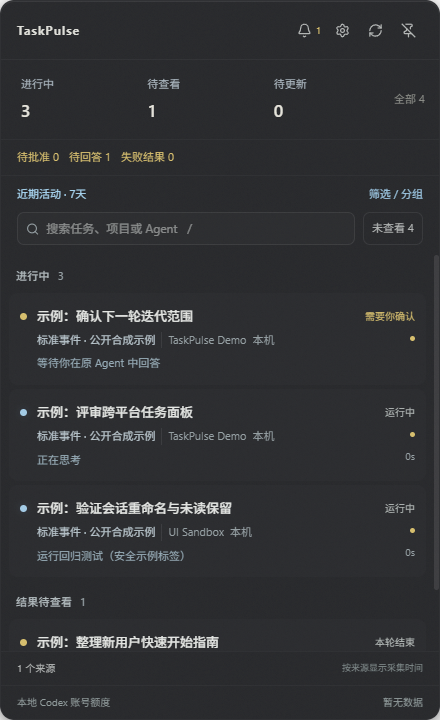
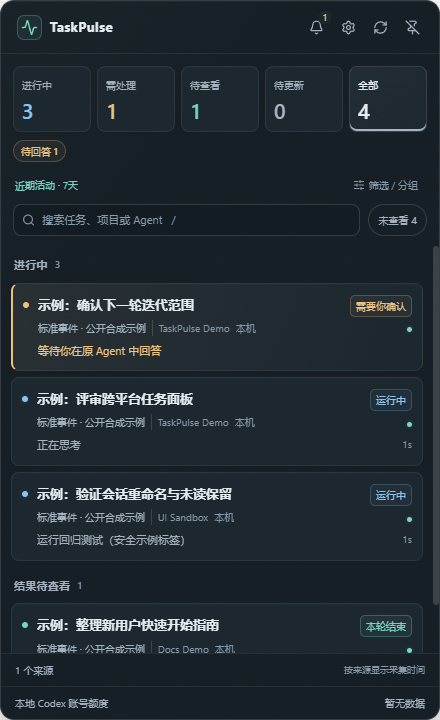
style(notice): unify compact reminders and refresh native screenshots

diff --git a/scripts/native-product-smoke.ts b/scripts/native-product-smoke.ts
@@ -40,7 +40,7 @@ const env={...process.env,TASKPULSE_HOME:home,WEBVIEW2_ADDITIONAL_BROWSER_ARGUME
 type Tab={url:string;webSocketDebuggerUrl:string};
 const tabs=async():Promise<Tab[]>=>fetch('http://127.0.0.1:9337/json').then(r=>r.json());
 assert.equal(await tabs().then(()=>true).catch(()=>false),false,'Refusing occupied CDP port');
-const errors:string[]=[];const checks:string[]=[];
+const errors:string[]=[];const checks:string[]=[];const scaleChecks:unknown[]=[];
 async function connect(tab:Tab){
   const ws=new WebSocket(tab.webSocketDebuggerUrl);await new Promise<void>((ok,fail)=>{ws.onopen=()=>ok();ws.onerror=()=>fail(Error('CDP failed'));});
   let seq=0;const pending=new Map<number,{ok:(v:any)=>void;fail:(e:any)=>void;timer:ReturnType<typeof setTimeout>}>();
@@ -64,6 +64,39 @@ function event(session:string,kind:string,payload:Record<string,string>={},extra
 }
 async function input(client:any,selector:string,value:string){await client.evaluate(`(()=>{const e=document.querySelector(${JSON.stringify(selector)});e.value=${JSON.stringify(value)};e.dispatchEvent(new Event('input',{bubbles:true}));})()`);}
 async function click(client:any,selector:string){await client.evaluate(`document.querySelector(${JSON.stringify(selector)}).click()`);}
+// Native WebView2 DPR emulation, not a claim that Windows display settings or
+// mixed-DPI monitor migration were changed/tested. Logical window sizes stay fixed.
+async function checkScales(client:any,kind:'dashboard'|'sources'|'notice',width:number,height:number){
+  for(const scale of [1,1.5,2]){
+    await client.send('Emulation.setDeviceMetricsOverride',{width,height,deviceScaleFactor:scale,mobile:false});
+    await Bun.sleep(150);
+    const layout=await client.evaluate(`(()=>{
+      const box=e=>{const r=e.getBoundingClientRect();return {left:r.left,right:r.right,top:r.top,bottom:r.bottom,width:r.width,height:r.height};};
+      const buttons=[...document.querySelectorAll('button:not(:disabled),input:not(:disabled),select:not(:disabled),summary')].filter(e=>{
+        const r=e.getBoundingClientRect(),x=r.left+r.width/2,y=r.top+r.height/2;
+        if(!(r.width>0&&r.height>0&&r.top>=0&&r.bottom<=innerHeight))return false;
+        // Offscreen descendants of a scrolling list are not occluded controls.
+        // Actual visible controls must still pass the elementFromPoint hit test.
+        for(let p=e.parentElement;p;p=p.parentElement){const s=getComputedStyle(p),b=p.getBoundingClientRect();if(/auto|scroll|hidden|clip/.test(s.overflowY)&&(y<b.top||y>=b.bottom))return false;if(/auto|scroll|hidden|clip/.test(s.overflowX)&&(x<b.left||x>=b.right))return false;}
+        return true;
+      });
+      const occluded=buttons.filter(e=>{const r=e.getBoundingClientRect();const hit=document.elementFromPoint(r.left+r.width/2,r.top+r.height/2);return !hit||!(e===hit||e.contains(hit));}).map(e=>e.getAttribute('aria-label')||e.textContent?.trim());
+      const titles=[...document.querySelectorAll('.row-title,.heading')].map(box);
+      const labels=[...document.querySelectorAll('.row-status')].map(box);
+      const overlapping=titles.some(t=>labels.some(s=>s.top<t.bottom&&s.bottom>t.top&&s.left<t.right&&s.right>t.left));
+      const panel=document.querySelector('.dashboard,.notice-window,.manage');
+      return {dpr:devicePixelRatio,bodyWidth:document.documentElement.scrollWidth,horizontal:document.documentElement.scrollWidth>innerWidth,panel:box(panel),occluded,overlapping,scrollbar:getComputedStyle(document.querySelector('.task-scroll')??document.body).overflowY};
+    })()`);
+    assert.equal(layout.dpr,scale);assert.equal(layout.horizontal,false,kind+' '+scale+' horizontal overflow');
+    assert.equal(layout.overlapping,false,kind+' '+scale+' title / state overlap');
+    assert.deepEqual(layout.occluded,[],kind+' '+scale+' inaccessible controls');
+    assert.ok(layout.panel.bottom<=height+1,kind+' '+scale+' panel outside logical window');
+    if(kind==='notice')assert.ok(await client.evaluate(`document.querySelector('.summary').getBoundingClientRect().bottom<=document.querySelector('footer').getBoundingClientRect().top`),'Notice summary overlaps actions');
+    await Bun.write(join(owned,kind+'-'+Math.round(scale*100)+'.png'),Buffer.from((await client.send('Page.captureScreenshot',{format:'png'})).data,'base64'));
+    scaleChecks.push({kind,scale,logicalSize:[width,height],...layout});
+  }
+  await client.send('Emulation.setDeviceMetricsOverride',{width,height,deviceScaleFactor:1,mobile:false});
+}
 async function screenshot(client:any,name:string,width:number,height:number){
   if(!process.argv.includes('--capture'))return;
   await client.send('Emulation.setDeviceMetricsOverride',{width,height,deviceScaleFactor:1,mobile:false});
@@ -88,6 +121,10 @@ try{
   const initial=await root.invoke('get_agents');
   const thinking=initial.find((t:any)=>t.session_id==='thinking'),done=initial.find((t:any)=>t.session_id==='done');
   assert.equal(await root.evaluate(`document.querySelector('.task-row').dataset.taskId`),initial.find((t:any)=>t.session_id==='question').id);
+  await checkScales(root,'dashboard',440,720);
+  await root.evaluate(`[...document.querySelectorAll('.counts .overview')].find(b=>b.textContent.includes('需处理')).click()`);
+  await root.wait(`document.querySelectorAll('.task-row').length===1&&document.querySelector('.task-row').textContent.includes('需要你确认')`);
+  await click(root,'.counts .total');
   await screenshot(root,'dashboard-alpha7',440,720);
   await input(root,'[aria-label="搜索任务"]','UI Sandbox');
   await root.wait(`document.querySelectorAll('.task-row').length===1`);
@@ -100,6 +137,8 @@ try{
   assert.equal(await root.evaluate(`(()=>{const rows=document.querySelectorAll('.task-row');rows[0].focus();rows[0].dispatchEvent(new KeyboardEvent('keydown',{key:'ArrowDown',bubbles:true}));return document.activeElement===rows[1];})()`),true);
   await click(root,'[data-task-id="'+thinking.id+'"]');
   await root.wait(`document.querySelector('.command')?.textContent.includes('正在思考')`);
+  const focus=await root.evaluate(`(()=>{const input=document.querySelector('[aria-label="搜索任务"]');document.querySelector('.dashboard').dispatchEvent(new KeyboardEvent('keydown',{key:'/',bubbles:true}));return document.activeElement===input&&getComputedStyle(input.closest('.search')).borderColor!=='rgba(0, 0, 0, 0)';})()`);
+  assert.equal(focus,true,'Search keyboard shortcut remains usable');
   assert.equal((await root.invoke('get_agents')).find((t:any)=>t.id===thinking.id).unread,thinking.unread);
   await input(root,'[aria-label="搜索任务"]','评审');
   await root.wait(`document.querySelectorAll('.task-row').length===1`);
@@ -132,16 +171,19 @@ try{
   await management.wait(`[...document.querySelectorAll('.source-tests button')].some(b=>b.textContent==='测试读取来源'&&!b.disabled)`);
   await management.evaluate(`[...document.querySelectorAll('button')].find(b=>b.textContent==='测试读取来源').click()`);
   await management.wait(`document.querySelector('.read-result')?.textContent.includes('本次读取正常')`);
+  await management.wait(`document.querySelector('.setup-flow [aria-current="step"]')?.textContent.includes('等待真实任务事件')`);
   const count=(await root.invoke('get_agents')).length;
   await management.evaluate(`[...document.querySelectorAll('button')].find(b=>b.textContent==='测试事件接收（不创建任务）').click()`);
   await management.wait(`document.body.textContent.includes('尚未验证真实 Agent')`);
   assert.equal((await root.invoke('get_agents')).length,count);
+  await checkScales(management,'sources',1040,900);
   await screenshot(management,'sources-alpha7',1040,900);
   checks.push('native source workflow/save/read test/event channel test; advanced Hook controls folded and no lifecycle overclaim');
   // Separate test notice is real renderer delivery, never a monitored Agent completion.
   const config=await root.invoke('get_monitoring_settings');config.notifications=true;await root.invoke('save_monitoring_settings',{settings:config});
   await root.invoke('test_notification');notice=await page('/notice');
   await notice.wait(`document.body.innerText.includes('测试')`);
+  await checkScales(notice,'notice',320,132);
   await screenshot(notice,'notice-alpha7',320,132);
   await root.wait(`__TAURI_INTERNALS__.invoke('get_notification_log').then(r=>r.some(r=>r.test&&r.stage==='rendered'))`);
   assert.equal((await root.invoke('get_agents')).length,count);
@@ -151,7 +193,7 @@ try{
     await mkdir('assets/screenshots',{recursive:true});
     for(const name of ['dashboard-alpha7','sources-alpha7','notice-alpha7'])await copyFile(join(owned,name+'.png'),join('assets/screenshots',name+'.png'));
   }
-  const report={passed:true,checks,layout,screenshots:process.argv.includes('--capture'),renderer:'Windows native Tauri WebView2',inputs:'public synthetic standard events, not real Agent-host support',realHostsVerified:[],realHostConfigurationsChanged:false,notVerified:['external editor focus on locked desktop','real Agent-host lifecycle','installer acceptance'],evidence:owned};
+  const report={passed:true,checks,layout,scaleChecks,scalingMethod:'WebView2 CDP deviceScaleFactor 1/1.5/2 with fixed logical windows; not OS mixed-monitor DPI acceptance',screenshots:process.argv.includes('--capture'),renderer:'Windows native Tauri WebView2',inputs:'public synthetic standard events, not real Agent-host support',realHostsVerified:[],realHostConfigurationsChanged:false,notVerified:['external editor focus on locked desktop','real Agent-host lifecycle','installer acceptance','OS display-scale changes and mixed-DPI monitor migration'],evidence:owned};
   await Bun.write(join(owned,'result.json'),JSON.stringify(report,null,2));console.log(JSON.stringify(report));
 }catch(error){const ui=await management?.evaluate(`({read:document.querySelector('.read-result')?.textContent,buttons:[...document.querySelectorAll('.source-tests button')].map(b=>({text:b.textContent,disabled:b.disabled})),errors:[...document.querySelectorAll('[role=alert]')].map(e=>e.textContent)})`).catch(()=>null);const providers=await root?.invoke('get_providers').catch(()=>null);await Bun.write(join(owned,'failure.json'),JSON.stringify({error:String(error),stderr,errors,ui,providers},null,2));console.error('Evidence: '+owned);throw error;}
 finally{

diff --git a/src/routes/notice/+page.svelte b/src/routes/notice/+page.svelte
@@ -1,6 +1,6 @@
 <script lang="ts">
   import { onMount } from 'svelte';
-  import { Activity, ArrowUpRight, X } from '@lucide/svelte';
+  import { Activity, CircleAlert, CircleCheck, ArrowUpRight, X } from '@lucide/svelte';
   import { invoke, isTauri } from '@tauri-apps/api/core';
   import { listen } from '@tauri-apps/api/event';
   import type { NoticeState } from '$lib/types';
@@ -62,16 +62,16 @@
   });
 </script>
 
-<div class="notice-window" role="region" aria-label="TaskPulse 任务提醒" onpointerenter={()=>hovered=true} onpointerleave={()=>hovered=false}>
-  <button class="close" aria-label="关闭提醒（保持未查看）" title="关闭提醒，任务仍未查看" disabled={busy || !noticeState.current} onclick={()=>void dismiss()}><X size={16} strokeWidth={1.7}/></button>
+<div class="notice-window tp-theme tp-tone" data-tone={content?.tone==='attention'?'action':content?.tone==='info'?'brand':content?.tone ?? 'neutral'} role="region" aria-label="TaskPulse 任务提醒" onpointerenter={()=>hovered=true} onpointerleave={()=>hovered=false}>
+  <button class="close tp-icon" aria-label="关闭提醒（保持未查看）" title="关闭提醒，任务仍未查看" disabled={busy || !noticeState.current} onclick={()=>void dismiss()}><X size={16} strokeWidth={1.7}/></button>
   {#if noticeState.current && content}
     {#key noticeState.current.id}
       <button class="message" disabled={busy} aria-label={'查看任务详情：'+content.heading} onclick={open}>
-        <span class="avatar" aria-hidden="true"><Activity size={18} strokeWidth={1.8}/><span class={'status-dot '+content.tone}></span></span>
+        <span class="avatar" aria-hidden="true">{#if content.tone==='success'}<CircleCheck size={17} strokeWidth={1.7}/>{:else if content.tone==='attention' || content.tone==='danger'}<CircleAlert size={17} strokeWidth={1.7}/>{:else}<Activity size={17} strokeWidth={1.7}/>{/if}<span class={'status-dot '+content.tone}></span></span>
         <span class="copy">
           <span class="sender-line">
             <span class="sender" title={content.sender}>{content.sender}</span>
-            {#if noticeState.current.test}<span class="test-badge">测试提醒</span>{/if}
+            {#if noticeState.current.test}<span class="test-badge tp-chip">测试提醒</span>{/if}
           </span>
           <span class="heading" role="heading" aria-level={1} title={content.heading}>{content.heading}</span>
           <span class={'summary '+content.tone} role="status" title={content.summary}>{content.summary}</span>
@@ -85,7 +85,7 @@
         {:else if noticeTimeout(noticeState.current)===null}<span>等待处理，不会自动收起</span>
         {:else}<span>{hovered?'鼠标移开后自动收起':Math.ceil(remaining/1000)+' 秒后收起'}</span>{/if}
       </div>
-      <div class="actions"><button class="later" title="收起提醒，保持未查看" disabled={busy} onclick={()=>void dismiss()}>稍后处理</button><button class="primary" disabled={busy} onclick={open}>查看详情<ArrowUpRight size={12} strokeWidth={1.8}/></button></div>
+      <div class="actions"><button class="later tp-btn" data-variant="ghost" title="收起提醒，保持未查看" disabled={busy} onclick={()=>void dismiss()}>稍后处理</button><button class="primary tp-btn" data-variant="ghost" disabled={busy} onclick={open}>查看详情<ArrowUpRight size={12} strokeWidth={1.8}/></button></div>
     </footer>
     {#if noticeTimeout(noticeState.current)!==null}<div class="progress-track" aria-hidden="true"><div class="progress" style:width={(remaining/(noticeTimeout(noticeState.current) ?? 15000)*100)+'%'}></div></div>{/if}
   {:else if error}
@@ -94,44 +94,20 @@
 </div>
 
 <style>
-  .notice-window {
-    box-sizing:border-box; height:132px; width:100%; position:relative;
-    display:flex; flex-direction:column; overflow:hidden; background:#1a1b1e;
-    border:1px solid #ffffff14; border-radius:10px; color:#e0e5e9;
-    font-family:'Segoe UI','Microsoft YaHei UI',-apple-system,sans-serif;
-  }
-  button { cursor:pointer; font:inherit; border:0; background:transparent; }
-  button:disabled { cursor:default; opacity:.55; }
-  button:focus-visible { outline:2px solid #8cb5c9; outline-offset:-3px; }
-  .close { position:absolute; top:5px; right:5px; z-index:1; display:grid; place-items:center; width:24px; height:24px; border-radius:5px; color:#909aa6; }
-  .close:hover { background:#ffffff0d; color:#dce4e6; }
-  .message { min-height:0; flex:1; display:flex; align-items:flex-start; gap:10px; padding:11px 12px 9px; text-align:left; color:inherit; animation:arrive .18s ease-out; }
-  .message:hover { background:#ffffff05; }
-  .avatar { position:relative; flex-shrink:0; width:28px; height:28px; display:grid; place-items:center; background:#8cb5c91a; border:1px solid #8cb5c91a; border-radius:8px; color:#8cb5c9; }
-  .status-dot { position:absolute; width:9px; height:9px; bottom:-2px; right:-2px; border:2px solid #1a1b1e; border-radius:50%; background:#8cb5c9; }
-  .status-dot.success { background:#35a475; }
-  .status-dot.attention { background:#dc8b24; }
-  .status-dot.danger { background:#e45b5b; }
-  .copy { flex:1; min-width:0; }
-  .sender-line { display:flex; align-items:center; gap:6px; padding-right:28px; line-height:15px; }
-  .sender { font-size:10.5px; color:#909aa6; white-space:nowrap; overflow:hidden; text-overflow:ellipsis; }
-  .test-badge { flex-shrink:0; color:#90afca; background:#8cb5c91a; padding:0 4px; border-radius:3px; font-size:9px; white-space:nowrap; }
-  .heading { margin-top:4px; font-size:12.5px; font-weight:550; line-height:18px; overflow-wrap:anywhere; display:-webkit-box; -webkit-line-clamp:2; line-clamp:2; -webkit-box-orient:vertical; overflow:hidden; }
-  .summary { display:block; margin-top:4px; font-size:11px; line-height:16px; color:#a7b0bb; overflow:hidden; white-space:nowrap; text-overflow:ellipsis; }
-  .summary.danger { color:#e5a1a1; }
-  .summary.attention { color:#d9b975; }
-  footer { display:flex; align-items:center; justify-content:space-between; gap:6px; padding:4px 8px 5px 12px; border-top:1px solid #ffffff0a; }
-  .hint { min-width:0; color:#84909d; font-size:9.5px; white-space:nowrap; overflow:hidden; text-overflow:ellipsis; }
-  .pending { color:#a7b0bb; }
-  .actions { display:flex; align-items:center; gap:2px; flex-shrink:0; }
-  .actions button { display:inline-flex; align-items:center; gap:3px; padding:3px 5px; border-radius:4px; font-size:11px; line-height:16px; }
-  .later { color:#99a2ac; }
-  .later:hover { background:#ffffff0a; }
-  .primary { color:#91b5cc; font-weight:500; }
-  .primary:hover { background:#8cb5c91a; }
-  .progress-track { position:absolute; bottom:0; left:0; right:0; height:1px; background:#ffffff08; }
-  .progress { height:100%; background:#8cb5c966; transition:width .2s linear; }
-  .error { color:#e5a1a1; }
-  .empty-error { padding:28px 14px; font-size:11px; color:#e5a1a1; overflow-wrap:anywhere; }
-  @keyframes arrive { from { opacity:0; transform:translateY(4px); } to { opacity:1; transform:translateY(0); } }
+  .notice-window{box-sizing:border-box;height:132px;width:100%;position:relative;display:flex;flex-direction:column;overflow:hidden;background:var(--tp-panel);border:1px solid var(--tp-border-strong);border-radius:var(--tp-radius-lg);color:var(--tp-text);box-shadow:var(--tp-shadow-card)}
+  .notice-window::before{content:'';position:absolute;left:0;top:11px;bottom:11px;width:2px;border-radius:2px;background:var(--tone);opacity:.8;pointer-events:none}
+  button{cursor:pointer;font:inherit;border:0;background:transparent}.close{position:absolute;top:5px;right:5px;z-index:1;width:24px;height:24px;color:var(--tp-quiet)}.close:hover{background:var(--tp-hover);color:var(--tp-text)}
+  .message{min-height:0;flex:1;display:flex;align-items:flex-start;gap:10px;padding:11px 12px 9px 13px;text-align:left;color:inherit}.message:hover{background:var(--tp-hover)}
+  .avatar{position:relative;flex-shrink:0;width:28px;height:28px;display:grid;place-items:center;background:var(--tone-soft);border:1px solid var(--tone-line);border-radius:var(--tp-radius-md);color:var(--tone);box-shadow:inset 0 1px 0 #ffffff06}
+  .status-dot{position:absolute;width:8px;height:8px;bottom:-2px;right:-2px;border:2px solid var(--tp-panel);border-radius:50%;background:var(--tone)}
+  .copy{flex:1;min-width:0}.sender-line{display:flex;align-items:center;gap:6px;padding-right:25px;line-height:15px}.sender{font-size:10px;color:var(--tp-muted);white-space:nowrap;overflow:hidden;text-overflow:ellipsis}
+  .test-badge{flex-shrink:0;padding:0 4px;border-radius:3px;font-size:9px;line-height:14px;white-space:nowrap}
+  .heading{margin-top:4px;font-size:12.5px;font-weight:600;line-height:18px;overflow-wrap:anywhere;display:-webkit-box;-webkit-line-clamp:2;line-clamp:2;-webkit-box-orient:vertical;overflow:hidden;letter-spacing:.005em}
+  .summary{display:block;margin-top:4px;font-size:11px;line-height:16px;color:var(--tone);overflow:hidden;white-space:nowrap;text-overflow:ellipsis}
+  footer{display:flex;align-items:center;justify-content:space-between;gap:6px;padding:4px 8px 5px 12px;border-top:1px solid var(--tp-border);background:#10171c55;flex:none}
+  .hint{min-width:0;color:var(--tp-quiet);font-size:9px;line-height:16px;white-space:nowrap;overflow:hidden;text-overflow:ellipsis}
+  .pending{color:var(--tp-muted);padding:2px 0;font-size:9px;line-height:16px}
+  .actions{display:flex;align-items:center;gap:2px;flex-shrink:0}.actions .tp-btn{min-height:24px;gap:3px;padding:3px 5px;border-radius:var(--tp-radius-sm);font-size:10px;line-height:16px}.actions .primary{color:var(--tp-accent);font-weight:550}.actions .primary:hover{background:var(--tp-accent-soft)}
+  .progress-track{position:absolute;bottom:0;left:0;right:0;height:1px;background:var(--tp-border)}.progress{height:100%;background:var(--tone);opacity:.6;transition:width .2s linear}
+  .error{color:var(--tp-danger)}.empty-error{padding:28px 14px;font-size:11px;color:var(--tp-danger);overflow-wrap:anywhere}
 </style>

diff --git a/scripts/native-notice-smoke.ts b/scripts/native-notice-smoke.ts
@@ -53,7 +53,7 @@ try{
   const focusPreserved=lockedDesktop ? null : await root.invoke('plugin:window|is_focused',{label:'popup'});
   if(!lockedDesktop && !focusPreserved)throw Error('Focus changed during creation: '+JSON.stringify({noticeFocused:await root.invoke('plugin:window|is_focused',{label:'task-notice'}),popupVisible:await root.invoke('plugin:window|is_visible',{label:'popup'})}));
   const layout=await alert.evaluate(`(()=>{const p=document.querySelector('.notice-window');return {width:p.getBoundingClientRect().width,height:p.getBoundingClientRect().height,background:getComputedStyle(p).backgroundColor,overflow:document.documentElement.scrollWidth>320||document.documentElement.scrollHeight>132,errors:[...document.querySelectorAll('[role=alert]')].map(e=>e.textContent)};})()`);
-  if(layout.width!==320||layout.height!==132||layout.background!=='rgb(26, 27, 30)'||layout.overflow||layout.errors.length)throw Error(JSON.stringify(layout));
+  if(layout.width!==320||layout.height!==132||layout.background!=='rgb(21, 30, 36)'||layout.overflow||layout.errors.length)throw Error(JSON.stringify(layout));
   const name=await alert.evaluate(`document.querySelector('.heading')?.textContent`);
   if(name!==first.current.context?.task_name)throw Error('Native task title not used as message heading');
   await alert.send('Input.dispatchMouseEvent',{type:'mouseMoved',x:50,y:90});

diff --git a/assets/README.md b/assets/README.md
@@ -4,6 +4,8 @@
 
 ## 当前 Alpha.7 原生素材
 
+2026-10-21 视觉升级后重新捕获：统一青绿色桌面主题、语义状态卡片与紧凑通知，仍为真实 Tauri / WebView2 渲染和公开合成输入。没有为截图提高任何 Agent 的支持等级。
+
 | 文件 | 实际画面 | 输入 / 证据边界 |
 |---|---|---|
 | [dashboard-alpha7.png](screenshots/dashboard-alpha7.png) | 440 × 720 关注面板 | 标准事件来源，公开合成任务；明确提问、思考、工具活动与待查看结果 |
@@ -11,6 +13,8 @@
 | [notice-alpha7.png](screenshots/notice-alpha7.png) | 320 × 132 独立提醒 | 真正的 test_notification → 原生窗口 → rendered 投递记录；不创建监控任务 |
 
 这些 PNG 直接由原生 WebView2 CDP 输出，不拼接、重绘或后期替换文字。输入标题、项目与活动标签都是公开示例，不含私人会话、命令、账号或服务器；图片不是四款 Agent 宿主验收证据。运行环境和完整复现见 [UI 验证报告](../docs/UI_UX_VALIDATION_2026-10-21.md)。
+
+三个页面均补测 WebView2 CDP DPR 1 / 1.5 / 2（100% / 150% / 200%）：固定逻辑窗口下检查重叠、横向溢出与可见控件命中，倍图留在忽略提交的测试证据目录。该模拟不等同 Windows 真正切换显示比例或跨混合 DPI 显示器实测。
 
 ## 历史素材
 
